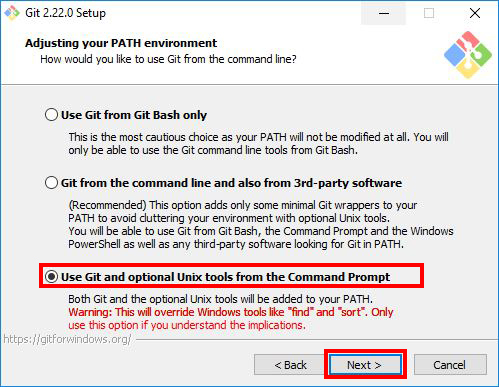
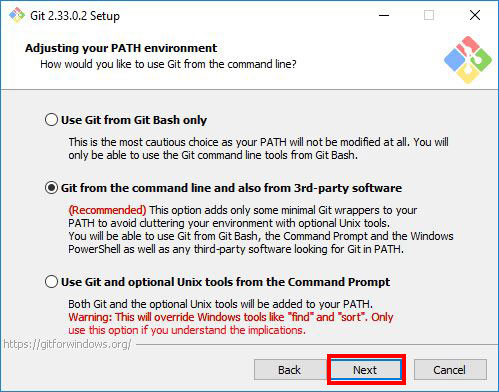
(feat): update git bash install tutorial

diff --git a/_posts/2019-08-12-how-to-install-git-bash-on-windows.md b/_posts/2019-08-12-how-to-install-git-bash-on-windows.md
@@ -12,162 +12,209 @@ tags:
  - windows
  - bash
 toc: true
+last_modified_at: 2021-09-12
 ---
 ## Introduction
-In this tutorial, we are going to learn how to install Git Bash on Windows.
+In this tutorial you will install Git Bash on your Windows operating system. Git Bash is one of the most popular packages on Windows system.  It comprises of [git](https://en.wikipedia.org/wiki/Git) and [bash](https://en.wikipedia.org/wiki/Bash_(Unix_shell)). Git was created in 2005 by Linus Torvalds, and was built around  a Unix-based system, such as the Linux operating system and MacOS. These operating systems have a built-in shell called bash that allows Git to run smoothly.
 
- Git Bash for Windows is a package that includes `git` and `bash`.
+ On the other hand, Windows is not a unix-based system and uses a different shell from bash, which `git` doesn't support out of the box. To bridge the gap, Git Bash was created. Git bash installs both `git` and `bash` shell on a Windows system giving it access to command line tools that allow `git` to run properly. Additionally, git bash  also installs `bash` tools such as `ssh`, `cat`, `nano` that makes developing on Windows easier.
 
-**Git** is an open-source version control system for tracking source code changes when developing software. It keeps a commit history which allows you to revert to a stable state in case you mess up your code. Git also allows multiple developers to collaborate on the same code base.
 
-**Bash** is a Unix command-line shell. The name is an acronym for the 'Bourne-Again Shell'. It comes with useful Unix commands like cat, ssh, SCP, etc., which are not usually found on Windows.
+### What is Git?
+**Git** is an open-source version control system for tracking source code changes when developing software. It keeps a commit history which allows you to revert to a stable state in case you mess up your code. Another common use for `git` is collaboration. `git` also allows multiple developers to collaborate on the same code base. it tracks all the changes each developer has made, and once the changes are accepted, the changes are merged into one code base which is deployed in production.
 
-## Download Git Bash
-### Step 1: Visit the Official Git Bash Website
+### What is Bash?
+**Bash** is a Unix command-line shell.  The name is an acronym for the 'Bourne-Again Shell'. A shell is a command line interpreter that gives the user an interface to interact with the computer through the use of commands.
 
-Download the latest version of Git Bash from their official website: [https://git-scm.com/](https://git-scm.com/)
+ Bash has a lot of useful commands, such as `rsync`,`ssh`, `SCP`, etc., which are not available on windows by default.
 
-![git bash official page](/assets/images/posts/2019-08-13-install-git-bash/official-homepage.jpg)
+Now that you have an idea of that git bash and the tools it installs on Windows, you will download git bash in the next section.
 
-Click the "Download for windows" button.  
+## Prerequisites
+To follow this tutorial you will need:
 
-### Step 2: Start Git Bash Download
+- Windows administrator privileges. 
+- A text editor. You can download [Visual Studio Code](https://code.visualstudio.com/download) or [Notepad++](https://notepad-plus-plus.org/downloads/). 
 
-Next, you will be redirected to a page that lets you know that you are about to start downloading.
+
+## Step 1: Downloading Git Bash
+In this section, you will download Git Bash executable from the official website.
+
+Open your preferred browser and visit Git Bash downloads page by clicking the following link: [Git Download Page](https://git-scm.com/downloads)
+
+Once the page loads, click the **Download for Windows** button.  
+
+![git bash official page](/assets/images/posts/2019-08-13-install-git-bash/download-page.jpg)
+
+
+
+Next, you will be redirected to a different page and download  will start automatically in a few seconds. 
 
 ![git bash download page](/assets/images/posts/2019-08-13-install-git-bash/download-starting.jpg) 
 
-If all goes well, the download should start automatically.
-
-**Tip:** If the download doesn't start, click on the "click here to download manually" link.
+**Tip:** If the download doesn't start, click on the **click here to download manually** link.
 {: .notice--info}
 
-![download bash](/assets/images/posts/2019-08-13-install-git-bash/permission.jpg) 
+Now that you have downloaded the Git Bash executable, you will run the installer.
 
-Click on "Save File" to start downloading the executable.
+## Step 2: Running the Installer
+
+In this step you will start the  Git Bash installation wizard. Go into your **Downloads** directory or the location where your browser download things in. Click the Git Bash executable(.**exe** file) to run the installer.
+
+Windows will prompt you with the message "Do you want to allow this app to make changes to your device?", click **Yes**.
 
 
-## Install Git Bash
-### Step 3: Run the Installer
-
-Once you have downloaded the Git Bash executable, click it to run the installer.
+Next, read the GNU General Public License and click **Next**.
 
 ![accept license](/assets/images/posts/2019-08-13-install-git-bash/accept-license.jpg)
 
-Click "Next" after you have read the license.
 
 
-### Step 4: Select Destination Location
+## Step 3: Selecting the  Destination Location
 
-Next, select the location you want to install Git Bash. I would recommend you just leave the default option as it is, and click "Next".
+In this step, the installer will ask you select the location you want to install Git Bash. Proceed with the default option, and click **Next**.
 
 ![choose default](/assets/images/posts/2019-08-13-install-git-bash/installation-directory.jpg)
 
-### Step 5: Select Components
+## Step 4: Selecting Components
 
-Choose the components you want to install, or you can just proceed with the default options and click "Next". I prefer selecting the "Additional icons" component which creates a Git Bash shortcut on the desktop.
+Select the components you want to install. I prefer selecting the **Additional icons** component which creates a Git Bash shortcut on the desktop. After you've selected the components, click **Next**.
 
-![select components](/assets/images/posts/2019-08-13-install-git-bash/select-components.jpg)
+![select components](/assets/images/posts/2019-08-13-install-git-bash/select-components.jpg) 
 
-### Step 6: Select Start Menu Folder
+## Step 5: Selecting the Start Menu Folder
 
-You can change the name of start menu folder here if you want, or just leave the default name and click "Next".
+The installer will ask you to choose the folder to create Start Menu folder. Proceed with the default name by clicking **Next**.
 
 ![select start menu folder](/assets/images/posts/2019-08-13-install-git-bash/select-start-menu-folder.jpg)
 
-### Step 7: Choose the Default Editor  used by Git
+## Step 6: Choosing the Default Editor  for Git
 
-Next, select the default editor for Git to use. Choose the one you like and click "Next". I would recommend you proceed with **Nano** or **Notepad++**. Don't proceed with the default option "Vim" as it has a steep learning curve.
+In this step, the installer will ask you to  choose the default editor for Git.  By default it chooses Vim, please **don't proceed with the Vim editor** as it has a steep learning curve.
 
-![Choose default editor](/assets/images/posts/2019-08-13-install-git-bash/choose-editor.jpg)
-![Choose nano editor](/assets/images/posts/2019-08-13-install-git-bash/choose-nano.jpg)
+Instead, choose a text editor that you like. If you looking for recommendations, you can download Visual studio code or notepad++ which are much easier to use and restart the installation wizard.
+
+I prefer Visual Studio code, so I will  select that.
+
+![Choose visual studio code editor](/assets/images/posts/2019-08-13-install-git-bash/choose-editor.jpg)
+
+After choosing the editor, click **Next**.
+
 ![editor chosen](/assets/images/posts/2019-08-13-install-git-bash/editor-chosen.jpg)
 
-### Step 8: Adjust your PATH Environment 
+## Step 7: Adjusting the Name of the Initial Branch in New Repositories.
+The installer will now ask you  to choose the branch name for new repositories. Naming a branch *master* used to be a popular naming convection, but lately there has been a shift to naming branches *main*. This due to negative association with the word master. Even GitHub changed the default branch name from *master* to a more inclusive name **main**.
 
-Choose the option you want depending on where you want to use Git and click "Next".
+So in this step, we will name the branch name **main**. select the **Override the default branch name for new repositories** option, and type **main**. After that, click **Next**.
 
-Select **"Use Git from Git Bash only"** option if want to run Git and Bash commands from Git Bash only. This means that you won't be able to run Git commands such as `git status` on Windows Command Prompt or Powershell. They will only be found on Git Bash.
+![choose branch name](/assets/images/posts/2019-08-13-install-git-bash/choose-branch-name.jpg)
 
-Select **"Git from the command line and also from 3rd-party software"** option if you want to run Git commands on Windows Command Prompt or Powershell.
 
-**Notice:**  Bash commands won't work on Command Prompt or Powershell with this option, but only Git commands will work.
-{: .notice--warning}  
+## Step 8: Adjusting your PATH Environment 
 
-**Tip:** If you need
-run bash commands, you will have to open the Git Bash. So go ahead with this option if that is what you want. 
-{: .notice--info}
+In this section, the installer will ask you to choose how you want to use Git. It offers you the following options:
 
-Select **"Use Git and optional Unix tools from the Command Prompt"** option if you want to use both Git and Bash commands on Windows Command Prompt or Powershell. This option will override some default Windows Command Prompt tools like find and sort. I don't use CMD or Powershell that much to worry about that. So I will go ahead with this option by clicking "Next".
+- **Use Git from Git Bash only**: allows you to run Git and Bash commands in the Git Bash terminal only. The commands won't work on **Windows Command Line(CMD)** or PowerShell.
+
+- **Git from the command line and also from 3rd-party software(recommended)**: allows you to run Git commands only on CMD, PowerShell and when you need bash commands, you will need to open the Git Bash terminal. 
+
+- **Use Git and optional Unix tools from the Command Prompt**: Allows you to run both Git and Bash commands on CMD or Powershell. This option overrides default CMD tools like find and sort. 
+
+
+We will go with the default option **Git from the command line and also from 3rd-party software**. We will be able to use Git on all terminals: CMD, PowerShell and Git Bash terminal. And we can always open the Git Bash Terminal when we need more bash tools. Click **Next** to proceed.
 
 ![Adjust Path Environment](/assets/images/posts/2019-08-13-install-git-bash/path-environment.jpg)
 
 
-### Step 9: Choose HTTPS Transport Backend
+## Step 9: Choosing the SSH executable 
+Select the Secure Shell(SSH) client, it's recommended to go with the default option. So select **Use bundled OpenSSH**, and click **Next**. 
 
-Next, select "Use the OpenSSL library" and click "Next".
+![choose ssh executable](/assets/images/posts/2019-08-13-install-git-bash/ssh-executable.jpg)
+
+## Step 10: Choosing HTTPS Transport Backend
+
+The installer will ask you to choose the SSL/TLS library for Git HTTPS connections. Proceed with the default option **Use the OpenSSL library** and click **Next**.
 
 ![choose https transport backend](/assets/images/posts/2019-08-13-install-git-bash/choosing-https-transport.jpg)
 
-### Step 10: Configure the Line Ending Conversions
+## Step 11: Configuring the Line Ending Conversions
 
-Select how Git should treat line endings in text files. It's probably safe to go with the default option "Checkout Windows-Style, commit Unix-style line endings". Click "Next" to proceed.
+In this step, you will be prompted to choose how Git should treat line endings in text files. Since you are on Windows system, go with the default option **Checkout Windows-Style, commit Unix-style line endings** and click **Next**.
 
-![configure line endings conversions](/assets/images/posts/2019-08-13-install-git-bash/configuring-the-line-endings.jpg)
+![configure line endings conversions](/assets/images/posts/2019-08-13-install-git-bash/configuring-line-endings.jpg)
 
-### Step 11: Configure the Terminal Emulator to use with Git Bsh
+## Step 12: Configuring the Terminal Emulator to use with Git Bash
 
-Next, select the terminal emulator you want Git Bash to use. I will proceed with the default option "Use MinTTY(the default terminal of MSYS2) and click "Next".
+Choose the terminal emulator you want Git Bash to use. MinTTY works well, so I would recommend you to proceed with the default option **Use MinTTY(the default terminal of MSYS2)** and click **Next**.
 
 ![choose terminal emulator](/assets/images/posts/2019-08-13-install-git-bash/terminal-emulator.jpg)
 
-### Step 12: Configuring Extra Options 
+## Step 13: Choosing the Default Behaviour of `git pull`
+In this step, the installer asks you if you want to change the default behaviour of `git pull`(a git command). Unless you know what you doing, proceed with the default option **Default (fast-forward or merge)** and click **Next**.
 
-Select the features you want(the default options are fine) and click "Next". 
+![modify git pull behaviour](/assets/images/posts/2019-08-13-install-git-bash/modify-git-pull.jpg)
+
+## Step 14: Choosing a Credential Manager
+In this step, you will be asked to choose a credential manager. Proceed with the default option **Git Credential Manager Core** and click **Next**.
+
+
+![choose credential Manager](/assets/images/posts/2019-08-13-install-git-bash/choose-credentials-manager.jpg)
+
+## Step 15: Configuring Extra Options
+Select the features you want. I find the default options sufficient for my needs. You can proceed with them and click **Next**. 
 
 ![enable features](/assets/images/posts/2019-08-13-install-git-bash/extra-options.jpg)
 
-### Step 13: Configuring Extra Options
-
-Enable experimental options if you want. Enabling them allows you to try out newer features that are still in development. I don't enable this, so I will just proceed by clicking "Install" to start the installation process.
+## Step 16: Configuring Experimental Options
+If you are feeling adventurous, you can try new experimental features. I like to play it safe and I don't enable them, so I will proceed to start the installation process by clicking **Install**.
 
 ![enable experimental options](/assets/images/posts/2019-08-13-install-git-bash/experimental-options.jpg)
 
-### Step 14: Wait for Installation
+## Step 17: Waiting for Git Bash to install
 
-Now, wait for a few minutes as the Setup Wizard installs Git on your computer.
+In this step, you take a step back and wait for a few minutes for the Setup Wizard to install Git Bash on your computer.
 
-![Setup wizard](/assets/images/posts/2019-08-13-install-git-bash/installing.jpg)
+![Setup wizard](/assets/images/posts/2019-08-13-install-git-bash/installation.jpg)
 
-### Step 15: Complete the Git Setup Wizard
+## Step 18: Completing the Installation 
 
-After the installation has finished, check the "Launch Git Bash" and click "Finish" to launch Git Bash.
+After the installation has finished, select  **Launch Git Bash** and click **Finish** to launch Git Bash.
 
-![finish installation](/assets/images/posts/2019-08-13-install-git-bash/completed-installation.jpg)
+![finish installation](/assets/images/posts/2019-08-13-install-git-bash/complete-installation.jpg)
 
 The Git Bash terminal will now open and you will be able to enter Git and Bash commands.
 
-![git bash opened](/assets/images/posts/2019-08-13-install-git-bash/git-bash.jpg)
+![git bash opened](/assets/images/posts/2019-08-13-install-git-bash/launch-git-bash.jpg)
 
 Congratulations on successfully installing Git Bash.
 
-## Launching Git Bash
+## Step 19: Launching Git Bash
 The following are just some tips on how you can easily launch Git Bash.
 
 **1.** Right-click on any folder, anywhere and it will have the launch Git Bash option on the context menu.
 
 ![folder context](/assets/images/posts/2019-08-13-install-git-bash/folder-context.jpg)
 
-**2.** If you enabled the "Additional icons" option on **Step 5**, you can easily launch Git Bash by clicking the Git Bash desktop icon.
+**2.** If you enabled the "Additional icons" option on **Step 4**, you can easily launch Git Bash by clicking the Git Bash desktop icon.
 
 ![git bash shortcut](/assets/images/posts/2019-08-13-install-git-bash/git-bash-shortcut.jpg)
 
-**3.** If you chose the **third option** "Use Git and optional Unix tools from the Command Prompt" on **Step 8**. You can run both Git and Bash commands by opening Windows Command Prompt or Powershell.
+As mentioned in **Step **, you will be able to run Git commands on Git bash terminal, Windows Command Prompt, and Powershell. 
 
-![git bash cmd](/assets/images/posts/2019-08-13-install-git-bash/bash-cmd.jpg)
-![git bash cmd](/assets/images/posts/2019-08-13-install-git-bash/powershell-bash.jpg)
+Quickly, lets verify that Git works on **CMD** and **PowerShell** by typing the following commands:
 
-`git --version` tells you the Git version currently installed on a system. It is also a confirmation that Git is installed.
+```bash
+> git --version
+```
 
-`which git` tells you where the Git executable is located. `which` command is part of Unix commands/bash, it is not available on Windows Command Prompt or Powershell by default. 
+`git --version` tells you the Git version currently installed on your system. 
 
+
+![git bash cmd](/assets/images/posts/2019-08-13-install-git-bash/git-works-cmd.jpg)
+
+![git bash cmd](/assets/images/posts/2019-08-13-install-git-bash/git-works-powershell.jpg)
+
+## Conclusion
+In this article you installed Git Bash on your windows system. You also verified that Git works on `CMD`, and `PowerShell`.  You are now ready to start learning Git. Visit [gittutorial - A tutorial introduction to Git](https://git-scm.com/docs/gittutorial) to learn the basics.
+
+Thanks for reading.
